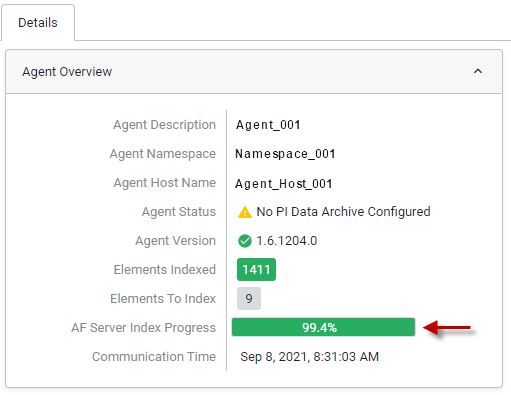
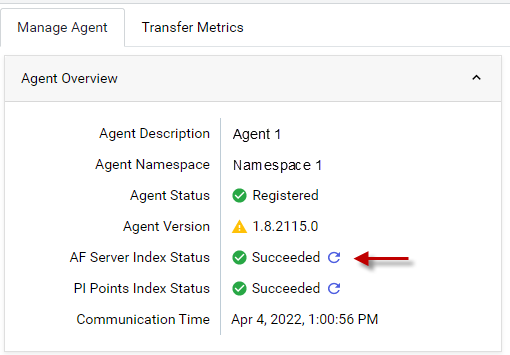
Update UI refs & screenshot
Updated UI refs to Details pane and Agent Overview section due to UI changes (addition of Transfer Metrics tab & removal of fields from Manage Agent tab (previously called Details tab).

diff --git a/content/add-organize-data/collect-data/connectors/pi-to-ocs/pi-to-ocs-data-transfers/transfer-data-to-ocs.md b/content/add-organize-data/collect-data/connectors/pi-to-ocs/pi-to-ocs-data-transfers/transfer-data-to-ocs.md
@@ -29,7 +29,7 @@ Transfer creation consists of the following tasks:
 
 1. Initiate the data transfer and monitor its progress. 
 
-**Note:** If you have configured an AF server, you will not be able to create a transfer until AF indexing is complete. AF indexing status is listed on the `Details` pane in the `PI to OCS Agents` page. The following image shows AF indexing in progress:
+**Note:** If you have configured an AF server, you will not be able to create a transfer until AF indexing is complete. AF indexing status is listed on the `Manage Agent` pane in the `PI to OCS Agents` window. The following image shows AF indexing in progress:
 
 ![](../../images/af-indexing.png)
 
